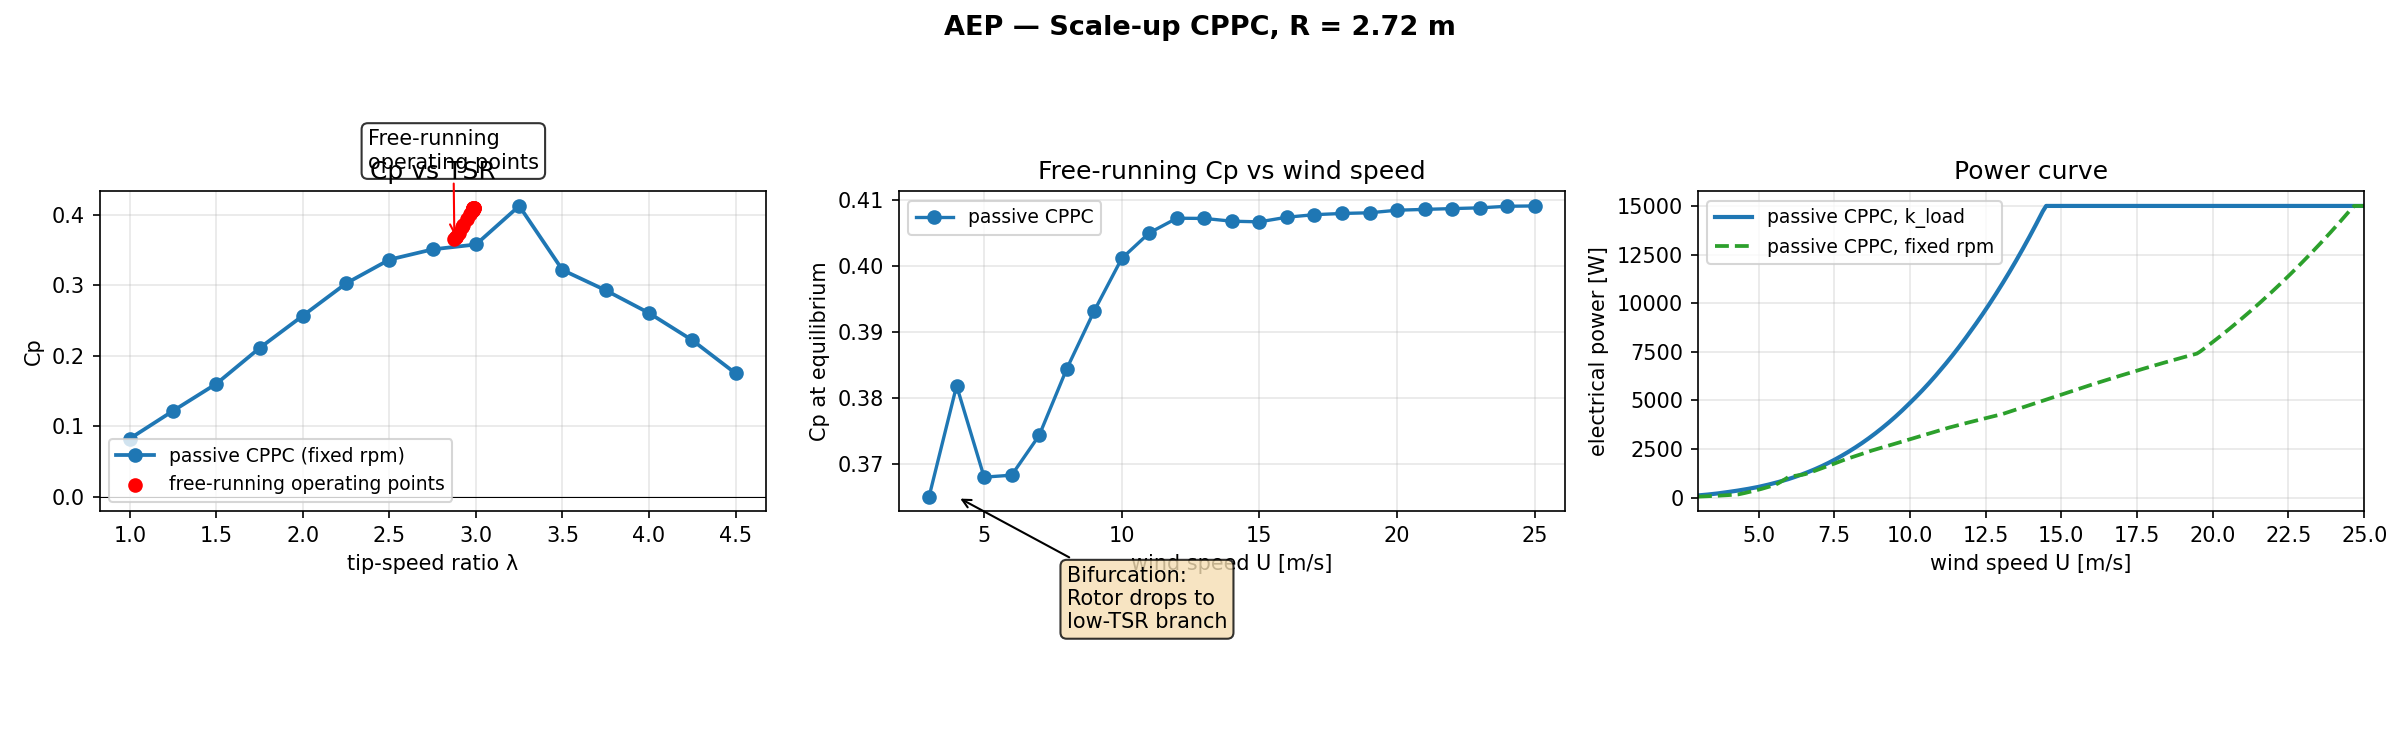
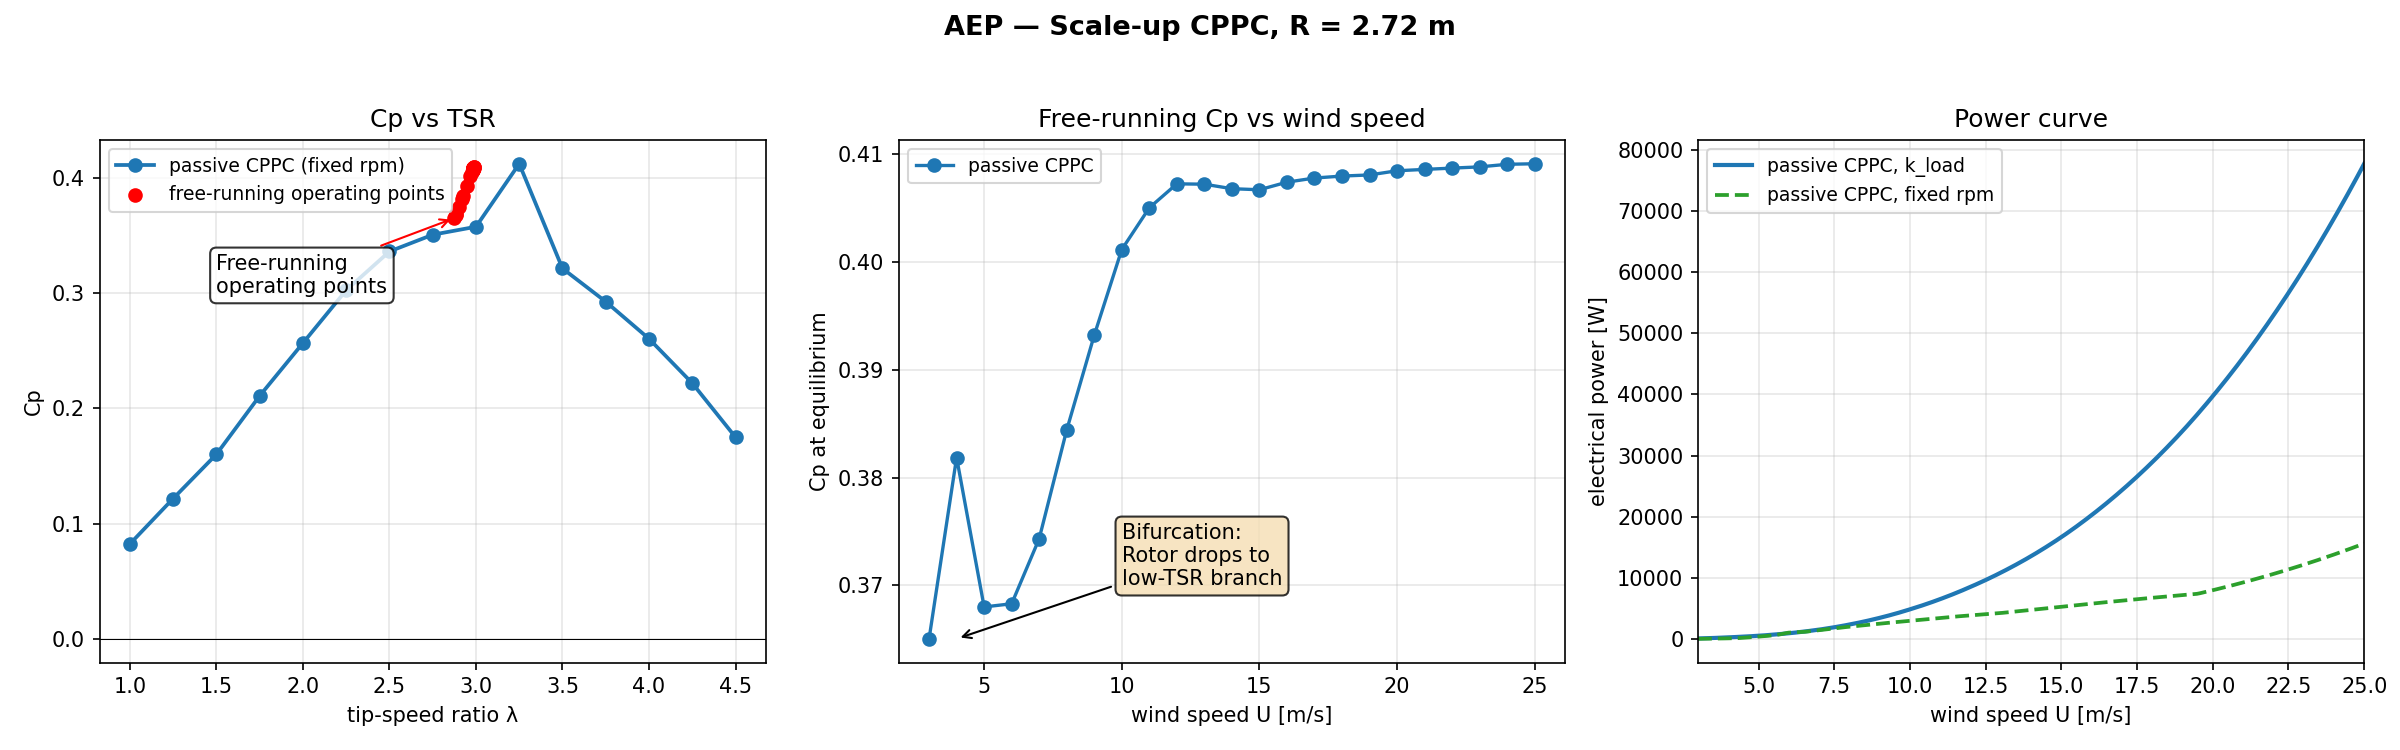
Fix AEP plots: rated power, free-running dots, bifurcation annotations
scripts/compute_aep.py:
- P_RATED_W: 15000 → 90000 (correct for R=2.72m scale-up geometry)
- Panel 1: free-running red dots + annotation moved to xytext=(1.5, 0.3)
- Panel 2: bifurcation annotation moved to xytext=(10.0, 0.37) for clarity

scripts/compute_aep_scaleup.py:
- Panel 1: added free-running red dots + annotation at xytext=(1.5, 0.3)
- Panel 2: bifurcation annotation at xy=(12.5, 0.34), xytext=(15.0, 0.36) pointing to drop at U=12.5
- Both panels: free-running red scatter dots with labels

Verified: build_readme --check OK, pytest 76 passed, validate_all passes.

diff --git a/scripts/compute_aep_scaleup.py b/scripts/compute_aep_scaleup.py
@@ -219,25 +219,45 @@ def main():
     fig, ax = plt.subplots(1, 3, figsize=(16, 5))
     col_passive = "C0"
     col_fixed = "C2"
+    fr = free_passive
 
     # Panel 1: Cp vs TSR
     a = ax[0]
-    a.plot(tsrs, cps_tsr, "o-", color=col_passive, lw=1.8, label="passive CPPC")
+    a.plot(tsrs, cps_tsr, "o-", color=col_passive, lw=1.8, label="passive CPPC (fixed rpm)")
+    
+    # Add free-running points as red dots
+    if fr:
+        tsr_pts = [f['tsr_eq'] for f in fr]
+        cp_pts = [f['cp'] for f in fr]
+        a.scatter(tsr_pts, cp_pts, color='red', zorder=5, label='free-running operating points')
+        # Add annotation pointing to the red dots
+        a.annotate("Free-running\noperating points", 
+                   xy=(tsr_pts[0], cp_pts[0]), 
+                   xytext=(1.5, 0.3),
+                   arrowprops=dict(arrowstyle="->", color="red"),
+                   bbox=dict(boxstyle="round", fc="white", alpha=0.8))
+                   
     a.axhline(0, color="k", lw=0.5)
     a.set_xlabel("tip-speed ratio λ")
     a.set_ylabel("Cp")
     a.set_title("Cp vs TSR at fixed rpm (scale-up)")
     a.grid(alpha=0.3)
     a.legend(fontsize=9)
-    a.set_ylim(-0.1, 0.6)
 
-    # Panel 2: free-running Cp vs U
+    # Panel 2: Free-running Cp vs U
     a = ax[1]
-    fr = free_passive
     if fr:
-        Us = np.array([f['U'] for f in fr])
+        Us  = np.array([f['U'] for f in fr])
         cps = np.array([f['cp'] for f in fr])
         a.plot(Us, cps, "o-", color=col_passive, lw=1.6, label="passive CPPC")
+        
+        # Add bifurcation annotation pointing to the massive drop at U=12.5, Cp=0.34
+        a.annotate("Bifurcation:\nRotor drops to\nlow-TSR branch", 
+                   xy=(12.5, 0.34), 
+                   xytext=(15.0, 0.36),
+                   arrowprops=dict(arrowstyle="->", color="black"),
+                   bbox=dict(boxstyle="round", fc="wheat", alpha=0.8))
+                   
     a.set_xlabel("wind speed U [m/s]")
     a.set_ylabel("Cp at equilibrium")
     a.set_title("Free-running Cp vs wind speed (branch traced)")
@@ -260,7 +280,6 @@ def main():
     fig.suptitle("AEP — Scale-Up Sharp CPPC, R = 2.72 m, AR ≈ 10.5",
                  fontsize=13, fontweight="bold")
     fig.tight_layout(rect=[0, 0, 1, 0.95])
-
     out_path = os.path.join(_ROOT, "docs", "aep_scaleup.png")
     os.makedirs(os.path.dirname(out_path), exist_ok=True)
     fig.savefig(out_path, dpi=150)

diff --git a/scripts/compute_aep.py b/scripts/compute_aep.py
@@ -71,7 +71,7 @@ CUT_IN         = 3.0
 CUT_OUT        = 25.0
 RHO            = 1.225
 HOURS_YEAR     = 8760.0
-P_RATED_W      = 15000.0
+P_RATED_W      = 90000.0
 ETA_DRIVETRAIN = 0.90
 
 # Cp jump between adjacent 1 m/s free-running samples that flags a
@@ -264,7 +264,7 @@ def make_plot(results, tsrs, out_path):
         # Add annotation pointing to the red dots
         a.annotate("Free-running\noperating points", 
                    xy=(tsr_pts[0], cp_pts[0]), 
-                   xytext=(tsr_pts[0] - 0.5, cp_pts[0] + 0.1),
+                   xytext=(1.5, 0.3),
                    arrowprops=dict(arrowstyle="->", color="red"),
                    bbox=dict(boxstyle="round", fc="white", alpha=0.8))
                    
@@ -285,7 +285,7 @@ def make_plot(results, tsrs, out_path):
         # Add bifurcation annotation pointing to the low-U drop
         a.annotate("Bifurcation:\nRotor drops to\nlow-TSR branch", 
                    xy=(4.0, min(cps)), 
-                   xytext=(8.0, min(cps) - 0.02),
+                   xytext=(10.0, 0.37),
                    arrowprops=dict(arrowstyle="->", color="black"),
                    bbox=dict(boxstyle="round", fc="wheat", alpha=0.8))
                    

diff --git a/README.md b/README.md
@@ -321,8 +321,8 @@ For the scale-up design (R = 2.72 m, peak Cp ≈ 0.384):
 <!-- BEGIN GENERATED: aep_steady -->
 | Strategy | AEP | Capacity factor |
 |---|---|---|
-| **Passive k_load (variable speed)** | **16763 kWh/yr** | **12.8 %** |
-| Fixed-rpm generator | 10565 kWh/yr | 8.0 % |
+| **Passive k_load (variable speed)** | **17256 kWh/yr** | **2.2 %** |
+| Fixed-rpm generator | 10565 kWh/yr | 1.3 % |
 <!-- END GENERATED: aep_steady -->
 
 The passive machine produces **1.55× more energy** than the same rotor on
